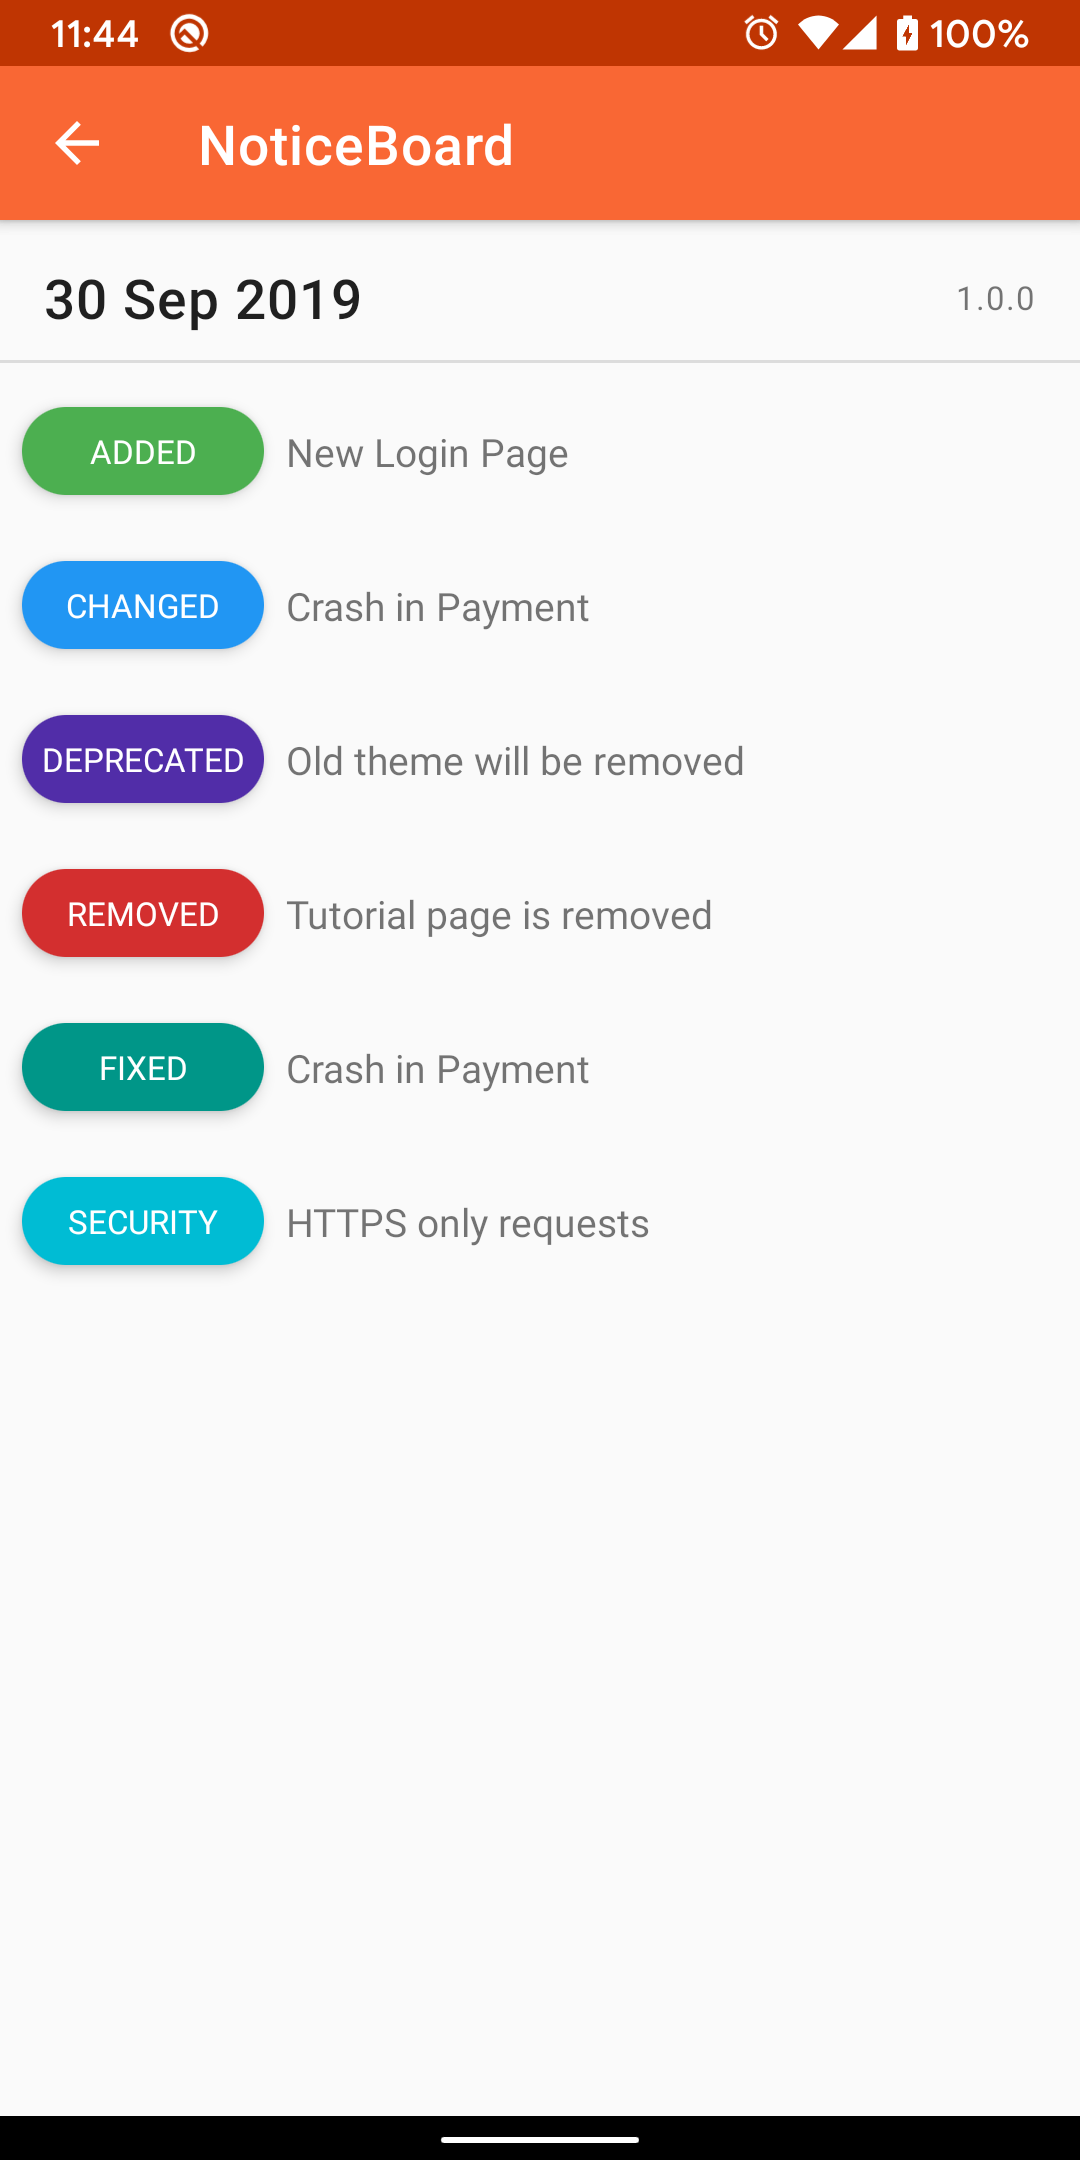
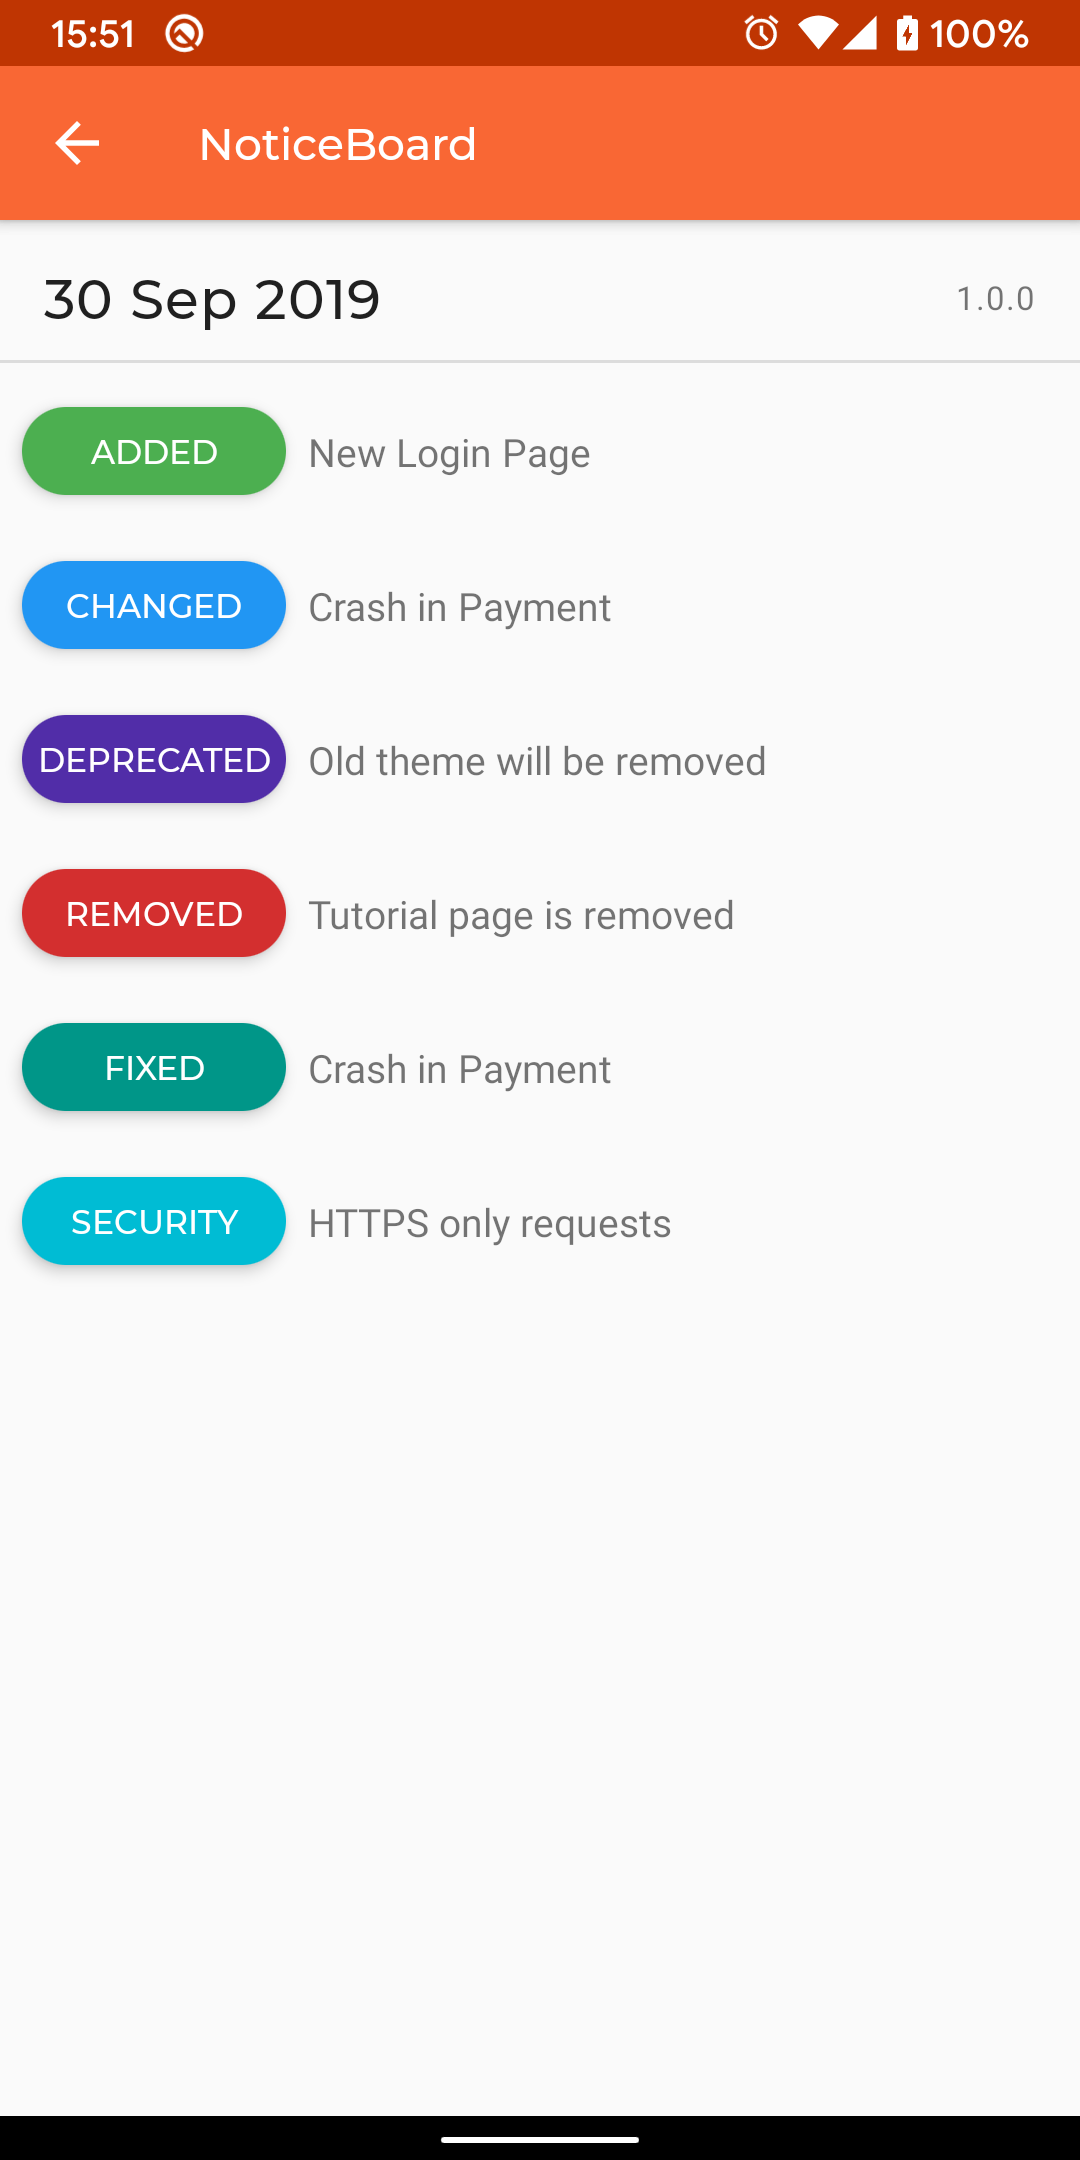
Add custom fonts

diff --git a/noticeboard/src/main/java/net/furkanakdemir/noticeboard/ui/NoticeBoardDialogFragment.kt b/noticeboard/src/main/java/net/furkanakdemir/noticeboard/ui/NoticeBoardDialogFragment.kt
@@ -24,7 +24,7 @@ internal class NoticeBoardDialogFragment : DialogFragment() {
     private val noticeBoardViewModel by viewModels<NoticeBoardViewModel>()
 
     override fun onCreateDialog(savedInstanceState: Bundle?): Dialog {
-        val builder = AlertDialog.Builder(requireContext())
+        val builder = AlertDialog.Builder(requireContext(), R.style.NoticeBoard_Dialog)
 
         val title = arguments?.getString(KEY_TITLE, TITLE_DEFAULT)
 
